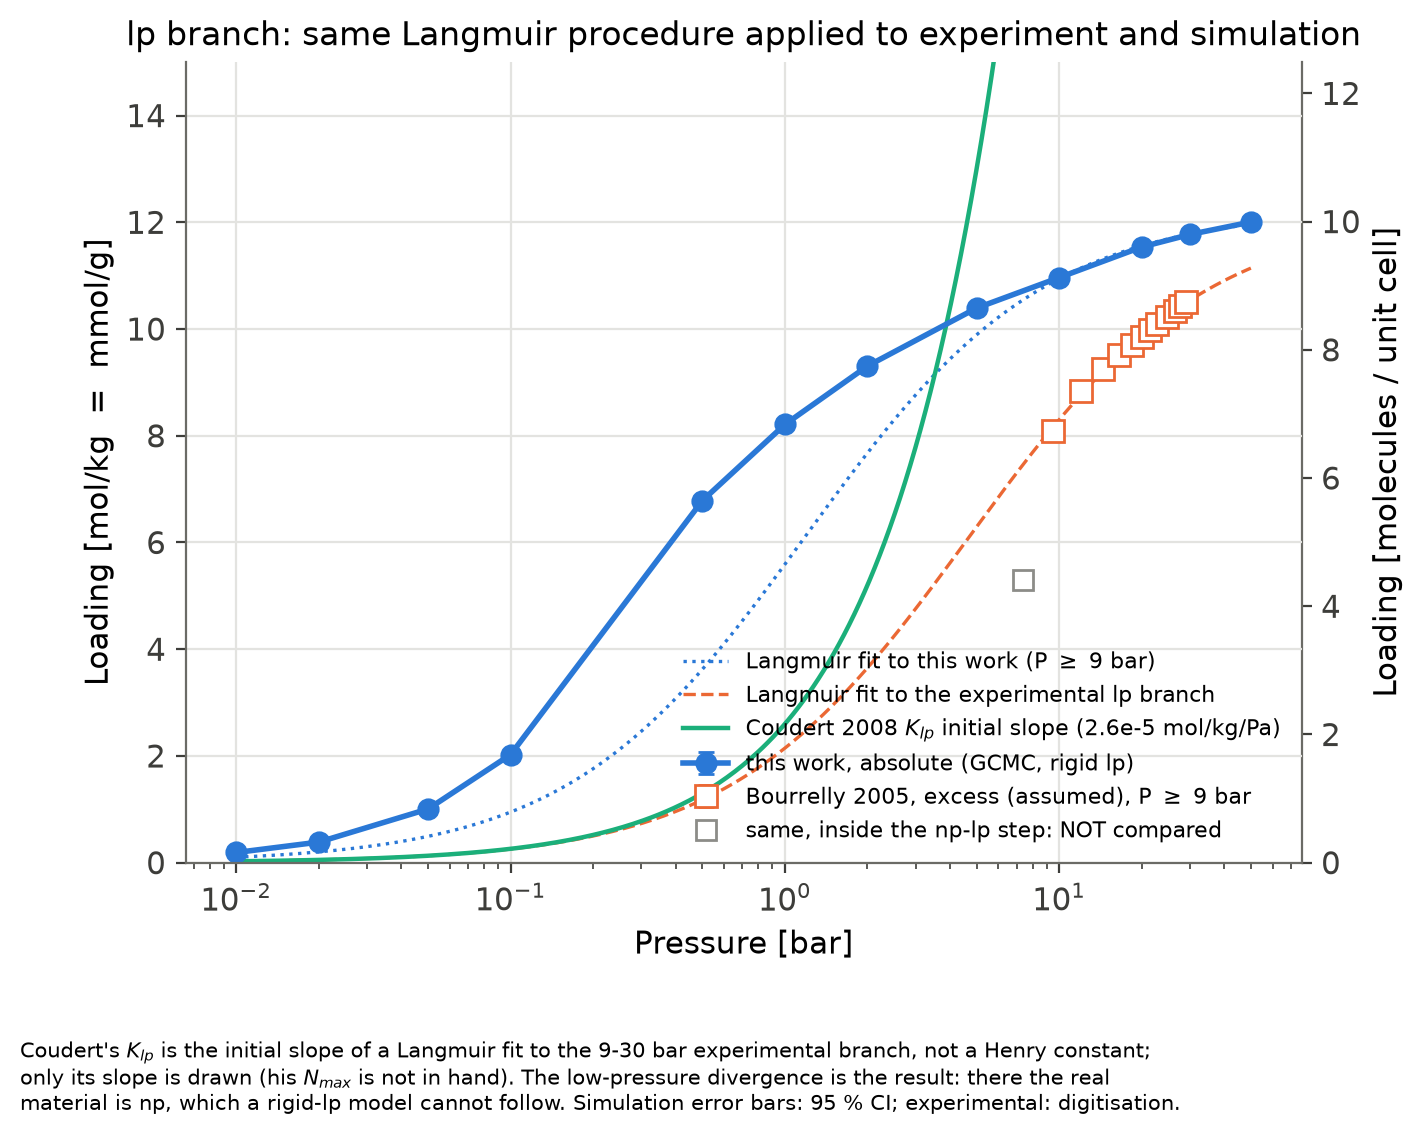
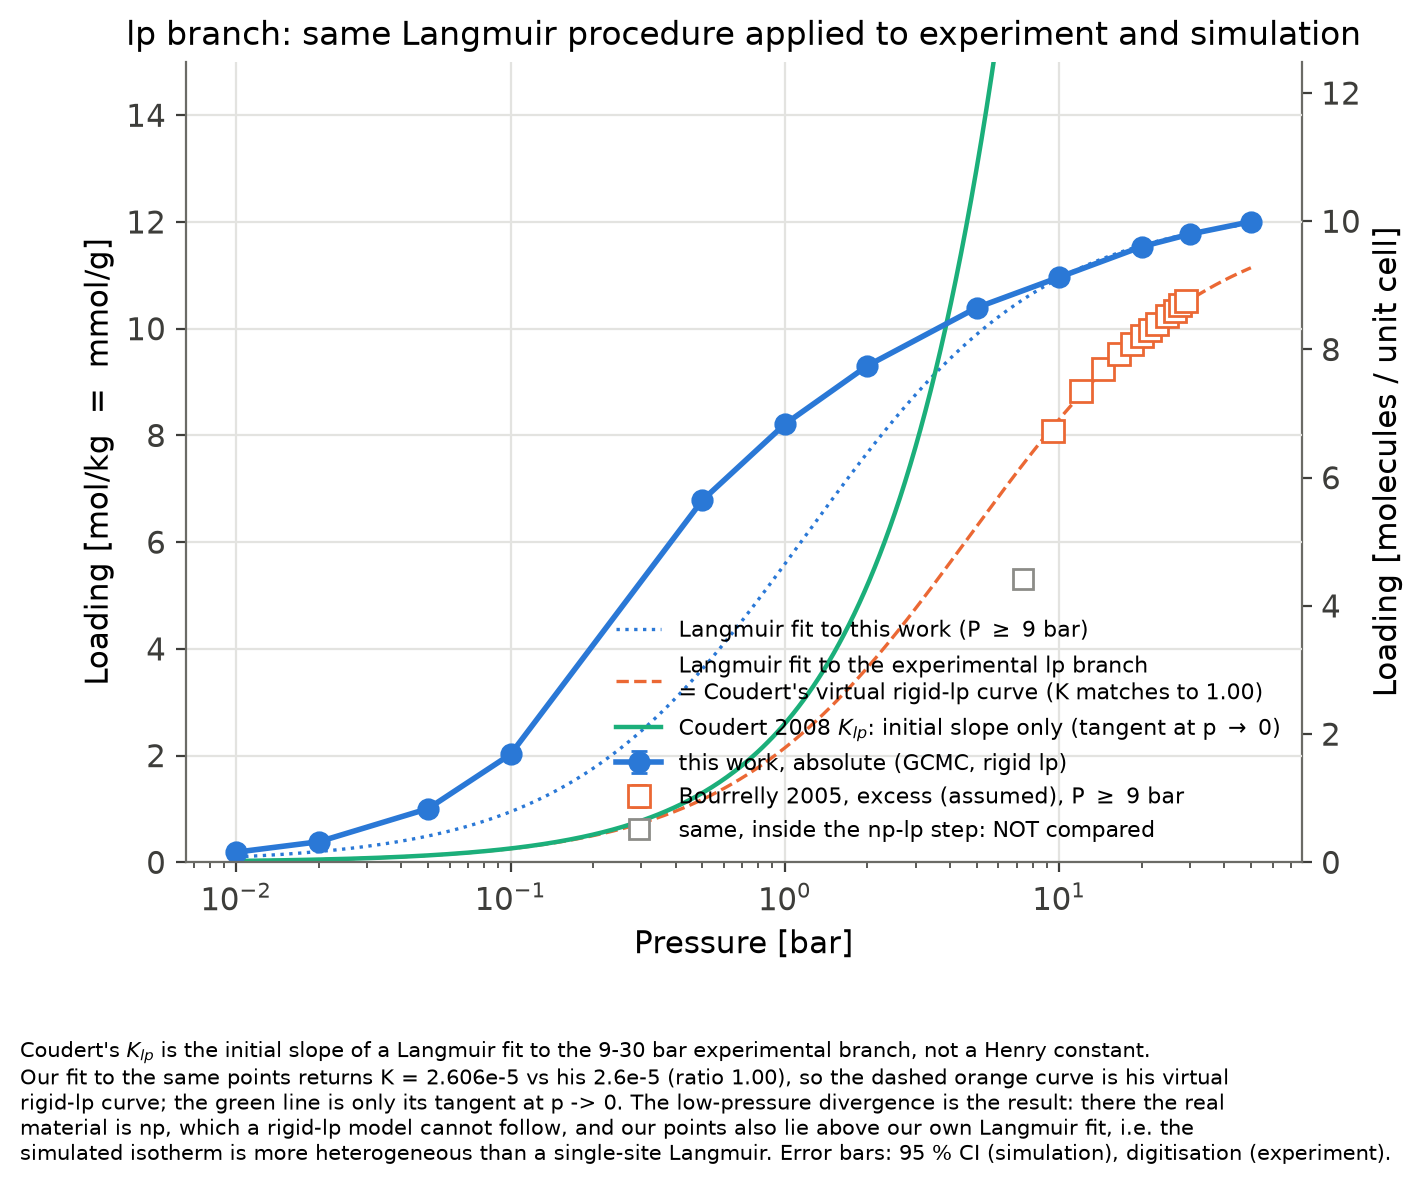
Langmuir figure: label the experimental fit as Coudert's virtual lp curve (K ratio 1.00)

diff --git a/scripts/langmuir.py b/scripts/langmuir.py
@@ -176,9 +176,9 @@ def main(argv=None):
         ax.errorbar(g.pressure_bar, g.loading_mmol_per_g, **{**REF, "color": "#8c8c88", "ms": 7},
                     label="same, inside the np-lp step: NOT compared")
     ax.plot(pp, fe["N_max"] * fe["b_per_bar"] * pp / (1 + fe["b_per_bar"] * pp), color=REF["color"], lw=1.2, ls="--",
-            label="Langmuir fit to the experimental lp branch")
+            label="Langmuir fit to the experimental lp branch\n= Coudert's virtual rigid-lp curve (K matches to 1.00)")
     ax.plot(pp, K_LP_COUDERT * 1e5 * pp, color=EXTRA[0], lw=1.6,
-            label="Coudert 2008 $K_{lp}$ initial slope (2.6e-5 mol/kg/Pa)")
+            label="Coudert 2008 $K_{lp}$: initial slope only (tangent at p $\\to$ 0)")
     ax.set_xscale("log")
     ax.set_ylim(0, max(sim[col].max(), e.loading_mmol_per_g.max()) * 1.25)
     ax.set_xlabel("Pressure [bar]")
@@ -189,9 +189,11 @@ def main(argv=None):
     ax.legend(fontsize=8, loc="lower right")
     fig.text(0.01, -0.06,
              "Coudert's $K_{lp}$ is the initial slope of a Langmuir fit to the 9-30 bar experimental branch, not a Henry "
-             "constant;\nonly its slope is drawn (his $N_{max}$ is not in hand). The low-pressure divergence is the result: "
-             "there the real\nmaterial is np, which a rigid-lp model cannot follow. Simulation error bars: 95 % CI; "
-             "experimental: digitisation.",
+             "constant.\nOur fit to the same points returns K = 2.606e-5 vs his 2.6e-5 (ratio 1.00), so the dashed orange curve "
+             "is his virtual\nrigid-lp curve; the green line is only its tangent at p -> 0. The low-pressure divergence is the "
+             "result: there the real\nmaterial is np, which a rigid-lp model cannot follow, and our points also lie above our own "
+             "Langmuir fit, i.e. the\nsimulated isotherm is more heterogeneous than a single-site Langmuir. Error bars: 95 % CI "
+             "(simulation), digitisation (experiment).",
              fontsize=7.5, va="top")
     fig.savefig(ROOT / "results" / "langmuir_lp_branch.png")
     print("\nwrote results/langmuir_fits.csv and results/langmuir_lp_branch.png")
